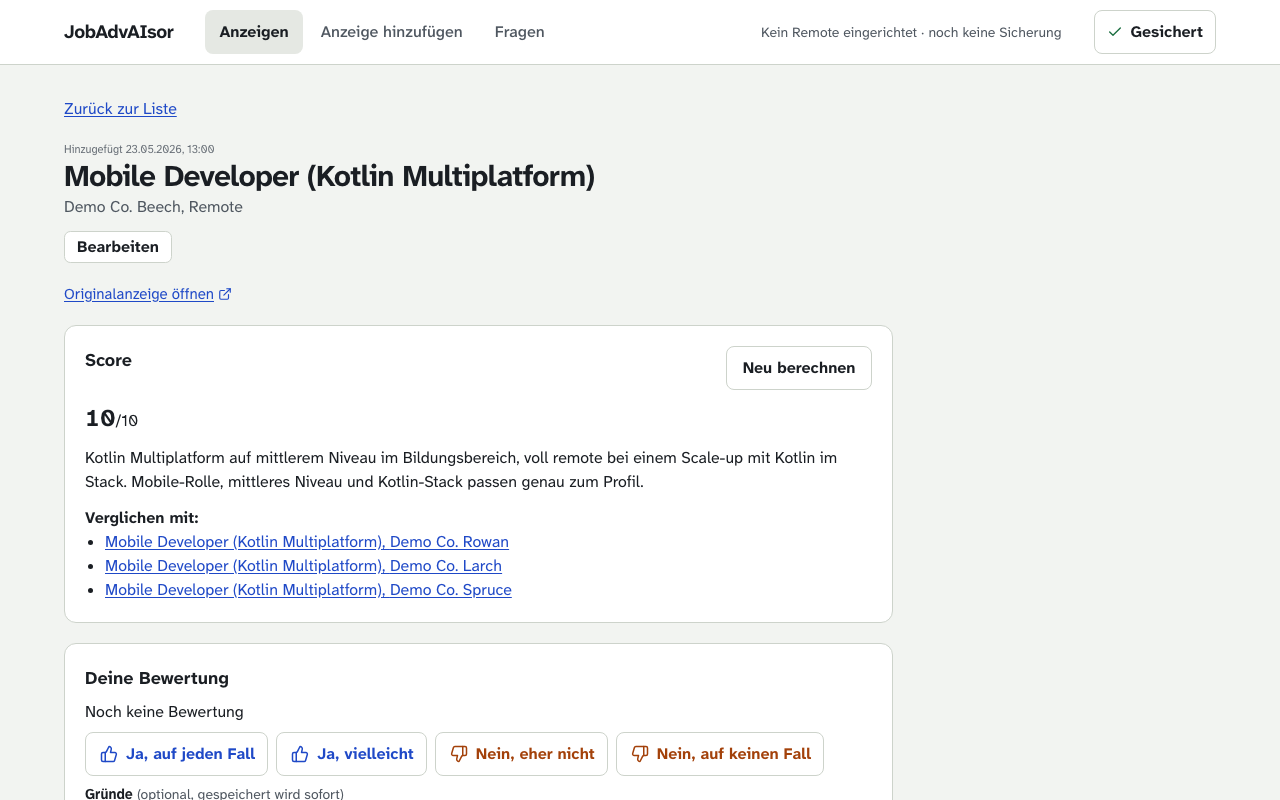
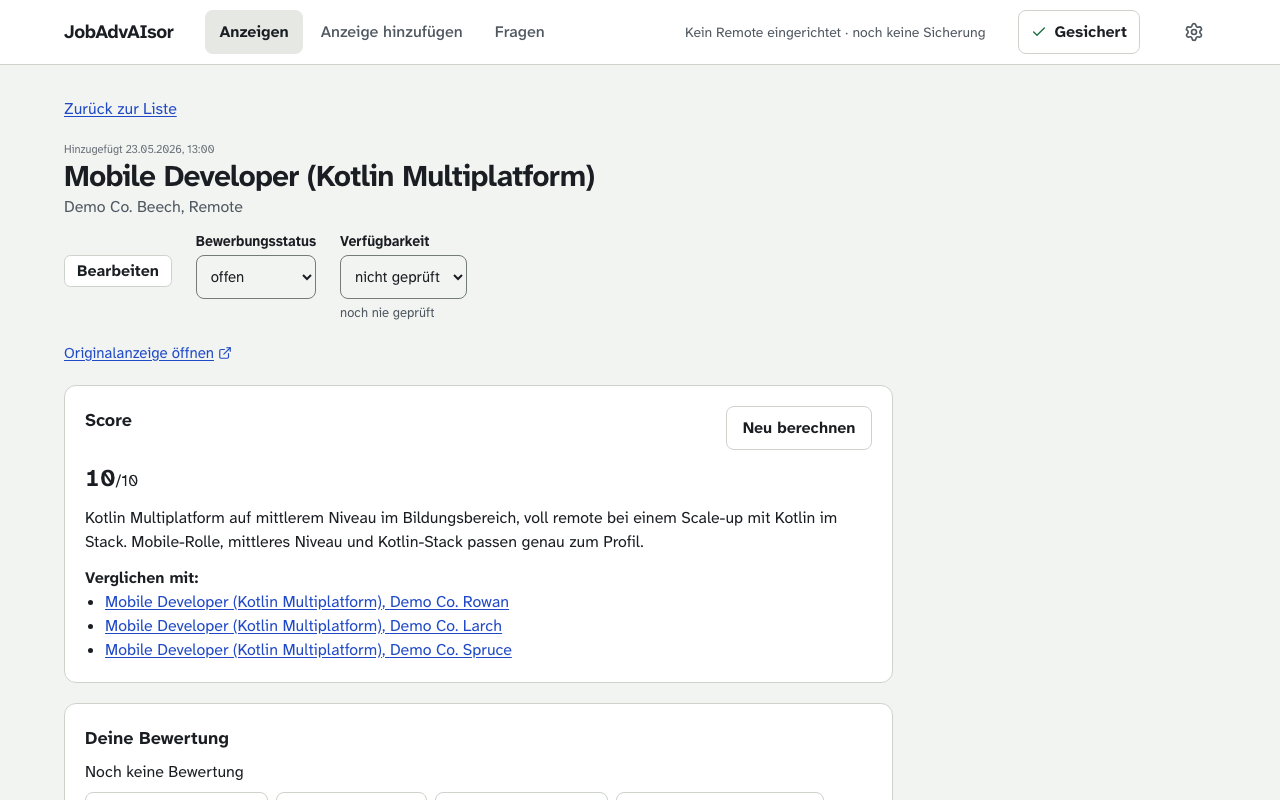
Describe the availability check in README and AGENTS.md and retake the README images (#40)
Claude-Session: https://claude.ai/code/session_01Gaydmx1KQvRLGxWqE4PgiA

diff --git a/AGENTS.md b/AGENTS.md
@@ -55,8 +55,8 @@ A pull request whose branch is already checked out in a worktree cannot be check
 
 The history lives in OpenSpec, not here: `openspec/specs/` is the baseline (one folder per capability) and `openspec/changes/archive/` holds every finished change with its proposal, design and tasks. Open work is in the GitHub issues. Keep this section to a pointer plus the last two archived changes; when archiving a change, drop the oldest entry.
 
-- `18-pass-progress-cancel` (#18): a pass reports its progress per posting and can be cancelled. `TriageContext` carries two hooks, `progress` (the pass's `{phase, score}` after every posting, with `phase` one of `checking`, `scoring`, `storing`) and `cancelled`; `exclude` and `score` ask `cancelled()` before each posting. A pass reads no features: the graph has no `extract` node, `TriageContext` has no `extractor`, and `score` takes over the second guard ruling, so a pass makes one model call per scored posting. `Runs` keeps progress and the set of cancel requests in memory under its lock (ADR 0013), `POST /pool/passes/{id}/cancel` answers 202, 404 or 409, and `GET /pool/passes/{id}` returns `{pass_id, status, started_at, error, progress, cancel_requested, scored, unscreened}` (`total` and `done` are gone). The status `cancelled` is not `aborted`: a cancelled pass stores what it scored and, when it scored anything, records a `PoolPass` with `cancelled: true`, which `counter` skips for its window. Storing cannot be cancelled. There is no `PassBand`: while a pass runs, `PassButton` in `PoolView.tsx` swaps the split button for the „Scoren abbrechen“ button in the same grid cell and width, ignoring presses for 1 s after each swap, and a fixed-size progress block sits beside it, so the row keeps its layout in every running state (the e2e walkthrough measures it at six widths).
 - `38-pass-button-variants` (#38, #75): the pass button is a split button (`PassButton` in `PoolView.tsx`, a Radix dropdown menu) for „Anzeigen ohne Score scoren“ and „Alle Anzeigen neu scoren“. `next_pass` is `{default, unscored, all}`, with `default` taken from the counter hint only, and `POST /pool/passes` requires `{"variant"}`. A hand pick lasts until the pool loads or the default changes; a failed pass retries with its stored variant. Each `PoolPass` records its `variant`, and `counter` windows from the last pass whose variant is `"all"` or missing (older records). UI texts say „scoren“ for the AI's scoring and „bewerten“ only for the user's rating.
+- `40-posting-availability` (#40): a posting can be closed. `Posting.availability` is optional (`{state: available|closed|unknown, set_at, set_by: check|user}`), no schema version bump. `ClosedRule` (one `redirect_marker` or one `text_marker` per `host`) comes from `DEFAULT_CLOSED_RULES` (LinkedIn's `trk=expired_jd_redirect`) plus `PolicyPack.closed_rules`, which adds and never replaces; `closed_rules_of(policy_pack)` sets the `closed_rules` context variable per thread. `download_plain` always installs a hop hook that raises `CLOSED_REDIRECT` before the hop is sent (also unguarded), `download_rendered` does the same through its route check, and `page_from_html` checks text markers over the visible text before the posting-text gate (`CLOSED_TEXT`, `Page.closed`). Intake treats both outcomes as gone (`GONE_OUTCOMES`) but still runs the loop for another source; a closed answer is `closed: true` / `outcome: "closed"` / `state: "closed"`. `availability.py` runs the user-started check: `check_batch` takes every open posting with a fetchable link (a closed one or a hand setting too), `check_posting` fetches each link once without retry, 404, 410, a redirect marker or a text marker close it, a 200 makes it available, anything else is unknown, and an unknown result never reopens a closed posting. `AvailabilityChecks` allows one check at a time with state in memory, spaces requests per host by `HOST_SPACING_SECONDS` and cancels after the current posting; `POST /availability/checks` answers 202 or 409, `GET /availability/checks/{id}` the state and `POST .../cancel` 202, 404 or 409. `write_availability(..., expected)` writes only while the stored value still equals the snapshot from the check's start, so a hand setting made during the check survives. `PATCH /postings/{id}` sets `available` or `closed` by hand, which lasts until the next check. The pool leaves a closed posting out of `pass_batch`, `next_pass`, `best_open` and the exploration pick but keeps it in `rank`, and the pass's `score` node re-reads the file before each judge call. Its rating still counts. The frontend has the filter „Stelle geschlossen“, `components/check.tsx` (button, progress, report; the check ID in `localStorage`), `AvailabilityControl` on the posting page, and the settings form in a header panel („Einstellungen“, `App.tsx`). The e2e walkthrough `test_availability_walkthrough.py` runs two checks over a demo copy behind an httpx mock transport.
 
 The README covers setup, the demo persona, the pool workflow, the deployment and the evals. `docs/company-facts.md` and `docs/extractor-benchmark.md` hold the longer guides.
 

diff --git a/README.md b/README.md
@@ -18,7 +18,7 @@ Built by Manuel Siebeneicher as a portfolio project in AI engineering. It is in 
 - **Intake.** A posting comes in as a link, pasted text or a PDF. A page is fetched over plain HTTP first and in a headless browser when it builds its text with scripts. A model-driven loop recovers pages that do not load at first.
 - **Job alert mails.** Paste a whole alert mail, and the app lists the postings it links, with the stored ones marked. Nothing is fetched until you pick. The chosen ones are added one after the other in the background, each like a single link. Fixed rules read LinkedIn, the Bundesagentur's job board and career sites with `/job/` links. For other senders a model picks the posting links, and only while the content guard is on. Links lose their login and tracking parameters before they are fetched or stored, and the model sees only a link's host and path.
 - **Triage.** A fixed LangGraph pipeline runs over each posting: deterministic hard exclusions from your policy pack, a content guard against injected instructions, and an LLM judge that scores the posting with your already rated postings as examples. The pass does no feature extraction.
-- **Pool.** Every stored posting sits in one pool, ranked by fit. You rate at four levels with reason chips and a note. The ratings feed the next pass.
+- **Pool.** Every stored posting sits in one pool, ranked by fit. You rate at four levels with reason chips and a note. The ratings feed the next pass. A check you start marks the postings whose link is gone as closed.
 - **Agent.** A conversational agent works with the same tools as the pipeline. It explains a score, finds similar postings or rescores postings on request.
 
 Backend: Python, FastAPI, LangGraph, LangChain, Chroma, SQLite. Frontend: React, Vite, TypeScript. Tracing through Langfuse. Any OpenAI-compatible model provider works.
@@ -84,6 +84,8 @@ The "Anzeigen" pool lists every stored posting. The pass button runs a scoring p
 ![The page of one posting on the demo persona, with its score, the reasoning and the postings it was compared with](docs/images/posting.png)
 
 *The score and the reasoning in this image are sample data.*
+
+A posting can be gone while it still sits in the pool. "Verfügbarkeit prüfen (N)" in the pool head checks the open postings that have a link, and only when you press it. It fetches each link once over plain HTTP, calls no model and waits 3 seconds between two requests to one host. A posting counts as closed when every link answers 404 or 410, redirects to a closed page, or shows a closed phrase on the page. LinkedIn's expired redirect is built in; the `closed_rules` of the policy pack add rules for other hosts. A link that answers normally makes the posting available. Anything else, such as a rate limit or a timeout, leaves it unknown, and an unknown result never reopens a closed posting. Pasted texts, PDFs and links on login-walled hosts are not checked. While the check runs, the button becomes "Prüfen abbrechen"; a cancel stops after the current posting and keeps the results so far. A report then lists the postings the check newly closed, how many were available or unknown, and how many stayed closed ("weiterhin geschlossen"). A closed posting carries the mark "Stelle geschlossen", leaves "Offen", "Noch nicht bewertet" and "Bewertet", and appears under the filter "Stelle geschlossen". A scoring pass skips it, but you can still rate it and score it on request. On a posting's page, "Verfügbarkeit" shows the result and who set it. You can set "verfügbar" or "geschlossen" there by hand. A hand setting lasts until the next check, which looks at the posting again and replaces it. The settings for the correction counter (threshold and rate) sit behind the gear button "Einstellungen" at the right end of the header, in every view.
 
 ## What the app needs
 

diff --git a/openspec/changes/40-posting-availability/tasks.md b/openspec/changes/40-posting-availability/tasks.md
@@ -155,7 +155,7 @@
 
 ## 4. End to end and docs
 
-- [ ] 4.1 Add an e2e walkthrough over a demo copy:
+- [x] 4.1 Add an e2e walkthrough over a demo copy:
   - every demo URL is answered by a stubbed fetch, so no request leaves the machine;
   - `HOST_SPACING_SECONDS` is patched to 0;
   - one posting answers 404 and one redirects to the marker;
@@ -165,6 +165,6 @@
 
   Verify with `env -C backend uv run pytest -m e2e -q` after `npm --prefix frontend run build`.
 - [ ] 4.2 Click test in the browser against the real dev server on a demo copy, whose `example.com`/`example.org` links answer as unknown or not at all. Start a check and read the report, which shows unknowns. Cancel a second check. Close one posting by hand, find it under „Stelle geschlossen“, rate it and reopen it. Open „Einstellungen“ in the header. Verify by screenshots in the PR description.
-- [ ] 4.3 Update the README pool workflow section and the AGENTS.md "Current state" section, and retake `docs/images/pool.png` and `posting.png` with `scripts/readme_images.py`. Verify that the README describes the check and the filter, and that both images show the new controls.
+- [x] 4.3 Update the README pool workflow section and the AGENTS.md "Current state" section, and retake `docs/images/pool.png` and `posting.png` with `scripts/readme_images.py`. Verify that the README describes the check and the filter, and that both images show the new controls.
 - [ ] 4.4 File the follow-up issues for a scheduled check and for a UI editor of the policy pack's closed rules. Verify that both issue numbers are named in the PR description.
 - [ ] 4.5 Run every check: `env -C backend uv run pytest -q`, `env -C backend uv run pytest -m e2e -q`, `env -C backend uv run ruff check .`, `npm --prefix frontend test`, `npm --prefix frontend run lint` and `npm --prefix frontend run build`. Verified when all of them pass and the `push` CI run on the branch head is green (the `pull_request` run skips every job except gitleaks, so it hides a red e2e job).
